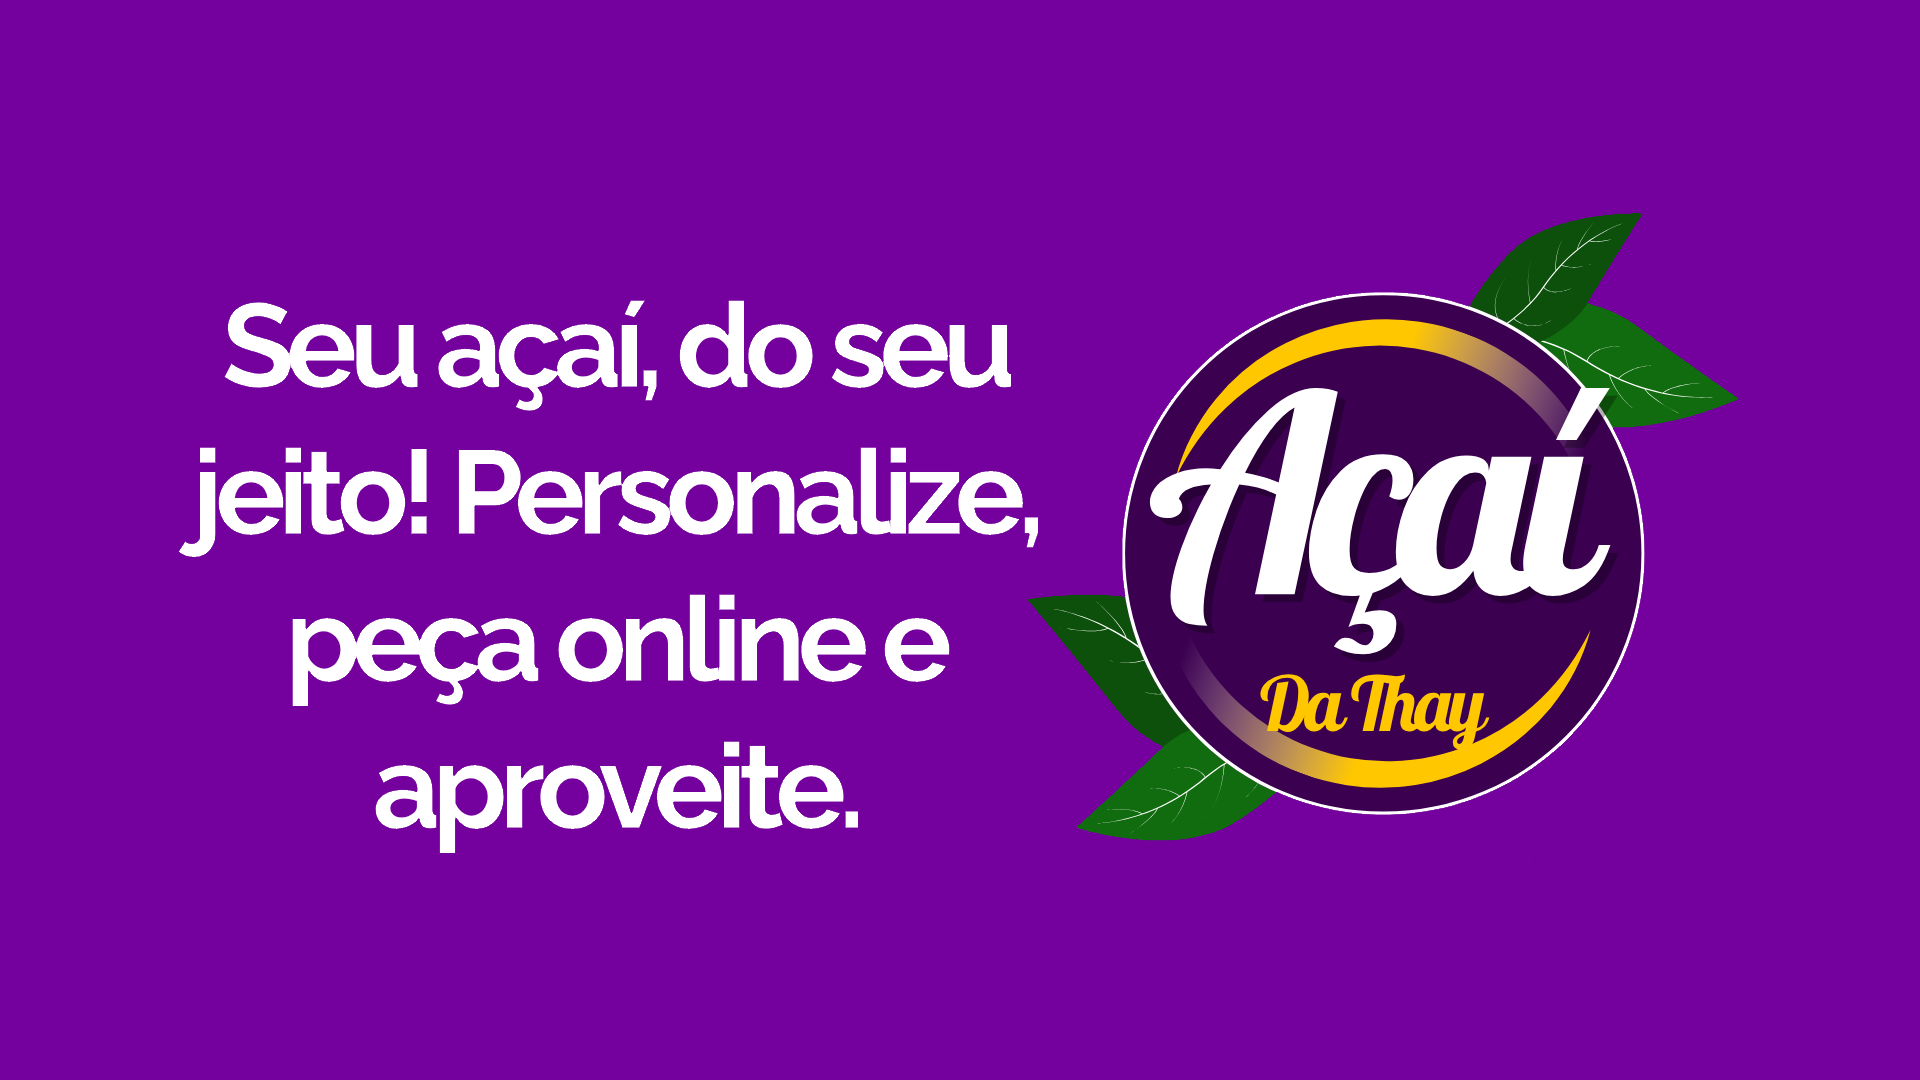
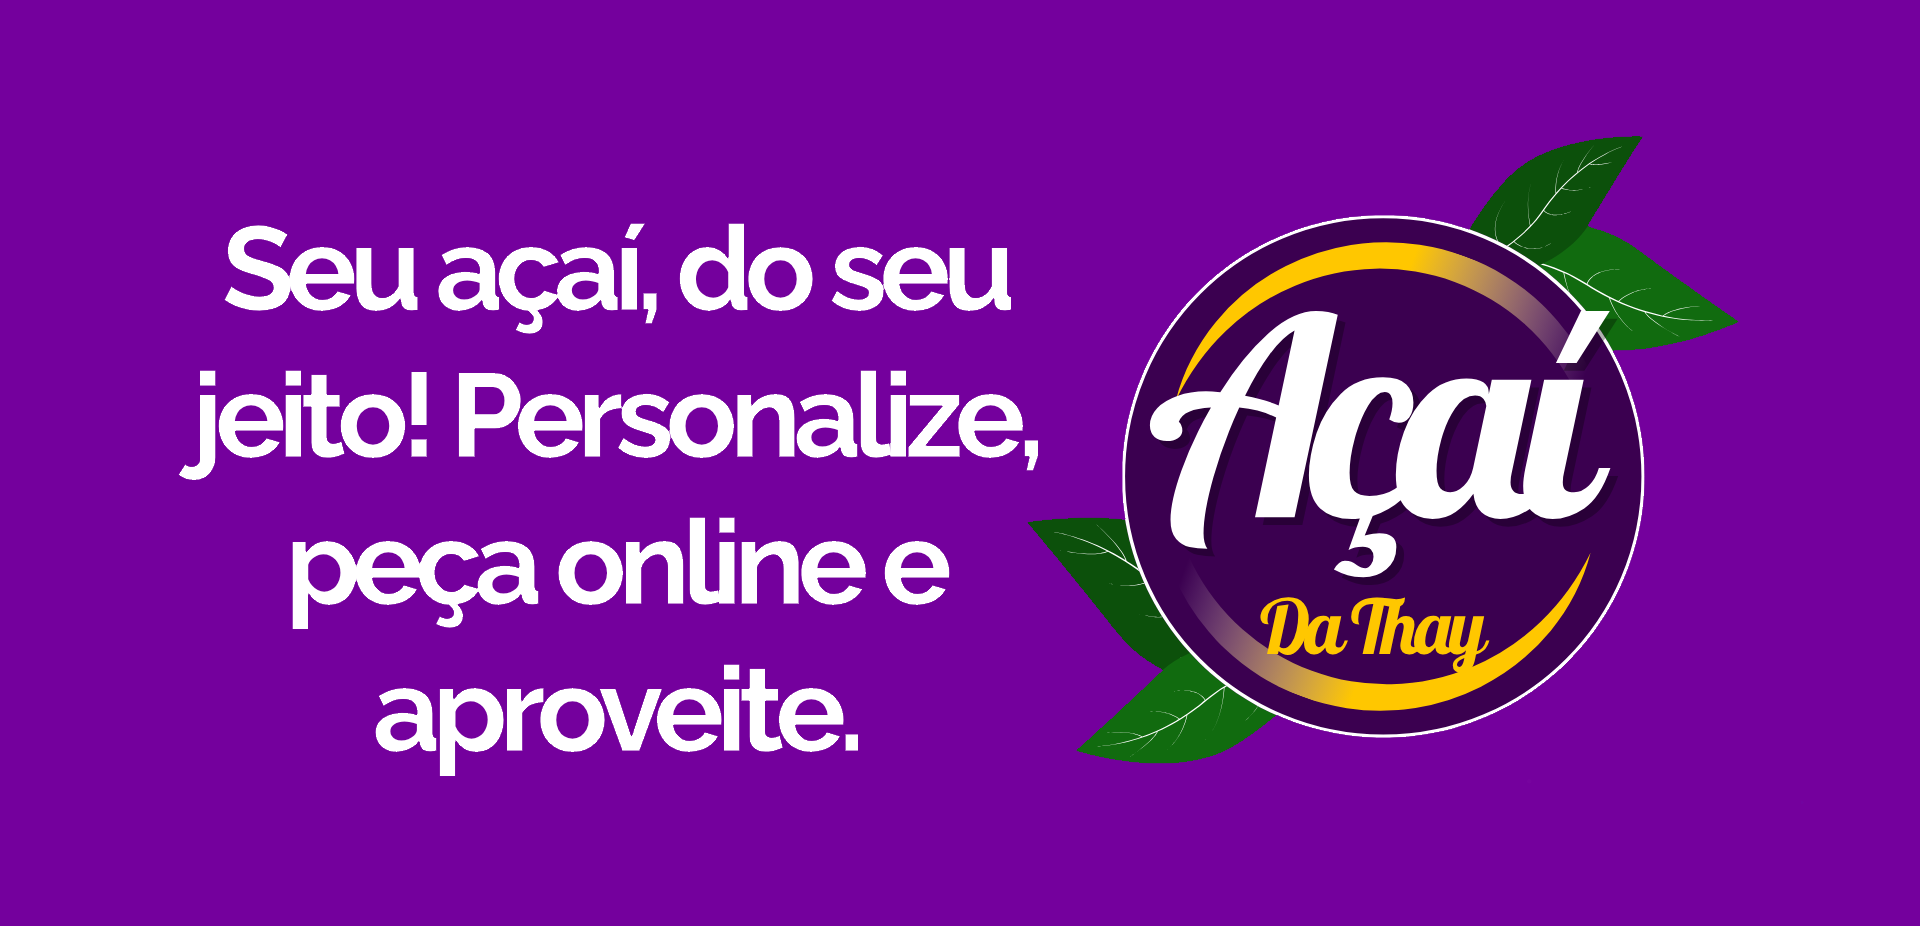
Alterando Imagens do carrossel página index

diff --git a/index.php b/index.php
@@ -9,7 +9,7 @@
                 <img src="_imagens/banner_02.png" class="d-block w-100" alt="Segundo slide">
             </div>
             <div class="carousel-item">
-                <img src="_imagens/slyde03.png" class="d-block w-100" alt="Terceiro slide">
+                <img src="_imagens/Sem título.png" class="d-block w-100" alt="Terceiro slide">
             </div>
         </div>
         <div class="carousel-indicators">
